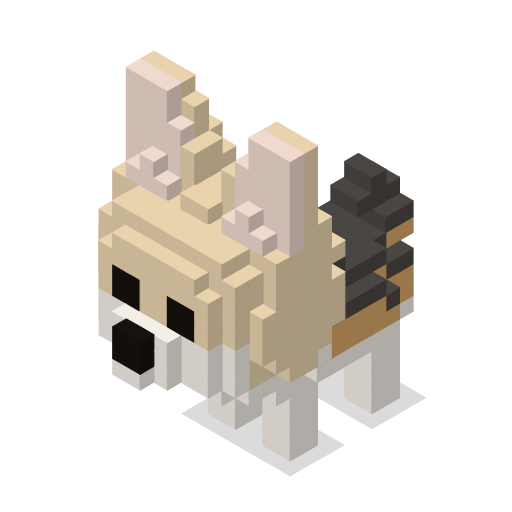
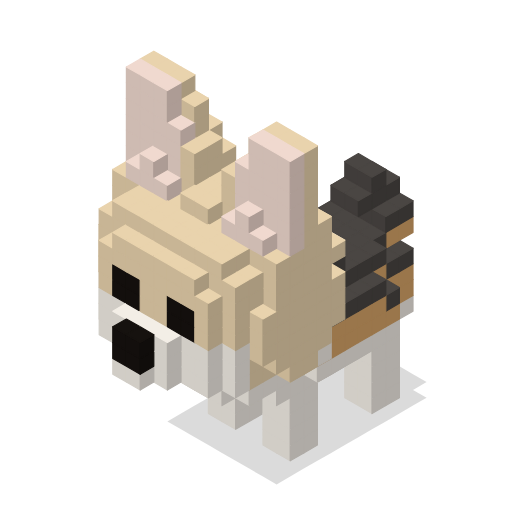
fix(404): drop continuous bob and align Nutella's shadow and platform (#647)

Changed region(s): [[0.3125, 0.8125, 0.5625, 0.9688], [0.5938, 0.7812, 0.7188, 0.875], [0.7812, 0.7188, 0.8438, 0.7812]]

diff --git a/e2e/pages.spec.ts b/e2e/pages.spec.ts
@@ -97,21 +97,42 @@ for (const [locale, { title, menu: label, moves, hints, prompt }] of Object.entr
   });
 }
 
-const idle = (page: Page) =>
+const hasWebGL = (page: Page) => page.evaluate(() => Boolean(document.createElement('canvas').getContext('webgl2') ?? document.createElement('canvas').getContext('webgl')));
+
+const infiniteFoeAnimations = (page: Page) =>
   page.locator('.foe').evaluate((el) =>
     el
       .getAnimations()
-      .map((a) => `${(a as CSSAnimation).animationName}:${a.playState}`)
-      .filter((a) => a.includes('idle:'))
-      // Angular prefixes keyframe names with the component's scope
-      .map((a) => a.replace(/^.*idle:/, 'idle:')),
+      .filter((a) => a.effect?.getComputedTiming().iterations === Infinity)
+      .map((a) => (a as CSSAnimation).animationName),
   );
 
-test('the wild 404 bobs while it waits, and the pause button stops it', async ({ page }) => {
+async function countNutellaDraws(page: Page): Promise<void> {
+  await page.addInitScript(() => {
+    const w = window as unknown as { nutellaDraws: number };
+    w.nutellaDraws = 0;
+    const gl = WebGL2RenderingContext.prototype;
+    const clear = Object.getOwnPropertyDescriptor(gl, 'clear')?.value as (this: WebGL2RenderingContext, mask: number) => void;
+    gl.clear = function (mask: number) {
+      if (this.canvas instanceof HTMLCanvasElement && this.canvas.closest('app-nutella-scene')) w.nutellaDraws++;
+      clear.call(this, mask);
+    };
+  });
+}
+
+const nutellaDraws = (page: Page): Promise<number> => page.evaluate(() => (window as unknown as { nutellaDraws: number }).nutellaDraws);
+
+test('Nutella animates without a continuous CSS bob, and the pause button stops her', async ({ page }) => {
+  await countNutellaDraws(page);
   await page.goto('/en/404');
-  await expect.poll(() => idle(page)).toEqual(['idle:running']);
+  expect(await infiniteFoeAnimations(page)).toEqual([]);
+  test.skip(!(await hasWebGL(page)), 'no WebGL in this browser');
+  const before = await nutellaDraws(page);
+  await expect.poll(() => nutellaDraws(page), { timeout: 15_000 }).toBeGreaterThan(before + 2);
   await press(page, 'Pause animations');
-  await expect.poll(() => idle(page)).toEqual(['idle:paused']);
+  const atPause = await nutellaDraws(page);
+  await page.waitForTimeout(400);
+  expect(await nutellaDraws(page)).toBe(atPause);
 });
 
 test.describe('with reduced motion', () => {
@@ -119,7 +140,7 @@ test.describe('with reduced motion', () => {
   test('the wild 404 stands still', async ({ page }) => {
     await page.goto('/en/404');
     await expect(page.locator('h1')).toBeVisible();
-    expect(await idle(page)).toEqual([]);
+    expect(await infiniteFoeAnimations(page)).toEqual([]);
     await expect(page.locator('app-nutella-scene')).toHaveCount(0);
     await expect(page.locator('app-nutella-figure img.still').filter({ visible: true })).toHaveCount(1);
   });
@@ -139,8 +160,6 @@ test.describe('without JavaScript', () => {
     await expect(page.locator('app-nutella-figure img.still').filter({ visible: true })).toHaveCount(1);
   });
 });
-
-const hasWebGL = (page: Page) => page.evaluate(() => Boolean(document.createElement('canvas').getContext('webgl2') ?? document.createElement('canvas').getContext('webgl')));
 
 function collectErrors(page: Page): string[] {
   const errors: string[] = [];

diff --git a/src/app/pages/not-found/not-found.scss b/src/app/pages/not-found/not-found.scss
@@ -71,10 +71,10 @@
     .foe::before {
       content: '';
       position: absolute;
-      left: 0;
-      bottom: -6%;
-      width: 100%;
-      height: 22%;
+      left: 20%;
+      top: 58%;
+      width: 76%;
+      height: 44%;
       background: var(--surface);
       clip-path: polygon(
         25% 0%,
@@ -212,27 +212,15 @@
     }
     @media (prefers-reduced-motion: no-preference) {
       .foe {
-        animation:
-          appear 480ms steps(6) both,
-          idle 1s steps(1, end) 480ms infinite;
+        animation: appear 480ms steps(6) both;
       }
       h1 {
         animation: type 960ms steps(20) 240ms both;
-      }
-      // the header's pause button stops it, as every motion that lasts longer than 5 s (WCAG 2.2.2)
-      :host-context([data-motion-paused]) .foe {
-        animation-play-state: paused;
       }
     }
     @keyframes appear {
       from {
         translate: 100vw 0;
-      }
-    }
-    // the wild creature waits for your move, bobbing in two frames like a battle sprite
-    @keyframes idle {
-      50% {
-        transform: translateY(calc(-1 * var(--space-1)));
       }
     }
     // the dialog box types its line out, a few letters at a time

diff --git a/src/app/voxel/nutella.model.ts b/src/app/voxel/nutella.model.ts
@@ -73,11 +73,11 @@ export function lidColor(voxels: readonly NutellaVoxel[], eye: NutellaVoxel): Nu
   return behind?.color ?? 'cream';
 }
 
-/** Ground cells under the feet and one cell round them, like the moai's shadow. */
+/** Ground cells under the torso and feet and one cell round them, like the moai's shadow. */
 export function nutellaShadowCells(voxels: readonly NutellaVoxel[]): { x: number; z: number }[] {
   const cells = new Set<string>();
   for (const v of voxels) {
-    if (v.y > 1) continue;
+    if (v.y > 4) continue;
     for (let dx = -1; dx <= 1; dx++) for (let dz = -1; dz <= 1; dz++) cells.add(`${String(v.x + dx)},${String(v.z + dz)}`);
   }
   return [...cells].map((k) => {

diff --git a/.claude/skills/edm-style/SKILL.md b/.claude/skills/edm-style/SKILL.md
@@ -67,7 +67,7 @@ Spend boldness here, keep everything else calm:
 
 8. **Background music** (`layout/music-toggle.ts`, `src/app/music/`, issue #516): an 8-bit ambient loop on Game Boy style pulse waves behind a 16px speaker icon in the header and the phone menu (`aria-pressed`). Off on every page load and started only by a press; the player and the song are a lazy chunk loaded on that first press; it keeps playing across in-app navigation and stops with the motion pause (`watchPause()`), fading out rather than cutting.
 
-9. **Nutella on the 404** (`voxel/nutella-figure/`, `voxel/nutella-scene/`, `voxel/nutella.motion.ts`, issues #632, #639): the user's chihuahua as the wild creature, voxels drawn like the moai (same cube size, lights, isometric camera and `--moai-shadow`), symmetric and with no loose cube (`nutella.model.spec.ts`), standing on a stepped pixel ellipse platform (`.foe::before`, `128px` on phones and `240px` from `md`). A square still PNG (`scripts/nutella-image.mjs`, `public/images/nutella{,-dark}.png`) renders from the start underneath until the first 3D frame is drawn and also serves as the fallback with reduced motion, reduced data or missing WebGL. Her pose steps at 12 fps (`POSE_FPS`) with idle wag bursts, random head tilts, blinks and ear flicks, shifts mood with the battle menu (`eager` on work/bag, `curious` on contact, `down` on run), hops on arrival and on click (`Nutella used Bark!` in the dialog box), and follows the pointer on desktop only (`(min-width: 1024px) and (hover: hover)`); still with reduced motion, under the pause button or out of sight. Three.js loads only once she is in view (`@defer (on viewport)`), the canvas is decorative, and the battle's appear and idle steps stay on the `.foe` wrapper.
+9. **Nutella on the 404** (`voxel/nutella-figure/`, `voxel/nutella-scene/`, `voxel/nutella.motion.ts`, issues #632, #639): the user's chihuahua as the wild creature, voxels drawn like the moai (same cube size, lights, isometric camera and `--moai-shadow`), symmetric and with no loose cube (`nutella.model.spec.ts`), standing on a stepped pixel ellipse platform (`.foe::before`, `128px` on phones and `240px` from `md`). A square still PNG (`scripts/nutella-image.mjs`, `public/images/nutella{,-dark}.png`) renders from the start underneath until the first 3D frame is drawn and also serves as the fallback with reduced motion, reduced data or missing WebGL. Her pose steps at 12 fps (`POSE_FPS`) with idle wag bursts, random head tilts, blinks and ear flicks, shifts mood with the battle menu (`eager` on work/bag, `curious` on contact, `down` on run), hops on arrival and on click (`Nutella used Bark!` in the dialog box), and follows the pointer on desktop only (`(min-width: 1024px) and (hover: hover)`); still with reduced motion, under the pause button or out of sight. Three.js loads only once she is in view (`@defer (on viewport)`), the canvas is decorative, her continuous ground shadow (`nutellaShadowCells`) covers torso and paws centred on the `.foe::before` platform, and `appear` stays on the `.foe` wrapper with no continuous `idle` bob.
 
 Photos load depixelating (`src/app/depixelate/`, as on locomotive.ca): a canvas draws them in ever finer blocks as they scroll in, then the photo shows; put `appDepixelate` on any new photo.
 

diff --git a/docs/superpowers/specs/2026-10-03-portfolio-v2-design.md b/docs/superpowers/specs/2026-10-03-portfolio-v2-design.md
@@ -445,3 +445,4 @@ Per i prossimi sviluppi: le domande aperte (titolo ufficiale, livello delle ling
 | 2026-11-19 | Hero (issue #593), più morbida: l'uscita segue lo scroll con circa un secondo di ritardo (`scrub: 1`), il testo svanisce entro il 40%, la nuvola chiude entro il 70% e il vento accelera di 3 celle al massimo; il `--p` del divisorio dell'hero ha un solo padrone (`hero.ts`, `dissolve.ts` lo salta) e un link a fuoco nel testo svanito lo rimostra (`:focus-within`) | "animazione tropo veloce" |
 | 2026-11-25 | 404 (issue #632): il mostro `wild404` lascia il posto a Nutella, il chihuahua dell'utente, in voxel come il moai (modello simmetrico in `voxel/nutella.model.ts`, colori `--nutella-*`), con coda che scodinzola e testa che si inclina; Three.js solo quando è in vista, ferma con reduced motion e pausa, lo sprite `wild404` resta come ripiego senza WebGL. |
 | 2026-11-25 | 404 (issue #639): Nutella passa a `NutellaFigure` con immagine statica quadrata (`scripts/nutella-image.mjs`) finché non è disegnata la scena 3D e come unico ripiego (niente più sprite `wild404`, né Three.js con reduced motion/reduced data), posa a scatti a 12 fps (`voxel/nutella.motion.ts`) con raffiche di scodinzolio, battito di ciglia, scatti alle orecchie, stati legati alle voci del menu (`eager`, `curious`, `down`), salto d'arrivo, abbaio al clic (`Nutella used Bark!`), sguardo verso il puntatore su desktop, piattaforma pixel e slot da 240 px da `md`. | "crea issue e fixa tutti" |
+| 2026-11-25 | 404 (issue #647): rimosso il saltello CSS continuo (`@keyframes idle`) su `.foe`, resa continua l'ombra a terra di Nutella sotto torso e zampe (`nutellaShadowCells`, `y <= 4`) e centrata la piattaforma `.foe::before` su zampe e ombra (`left: 20%; top: 58%; width: 76%; height: 44%`). | "elimina il saltello continuo, la ombra non è allineata bene" |
